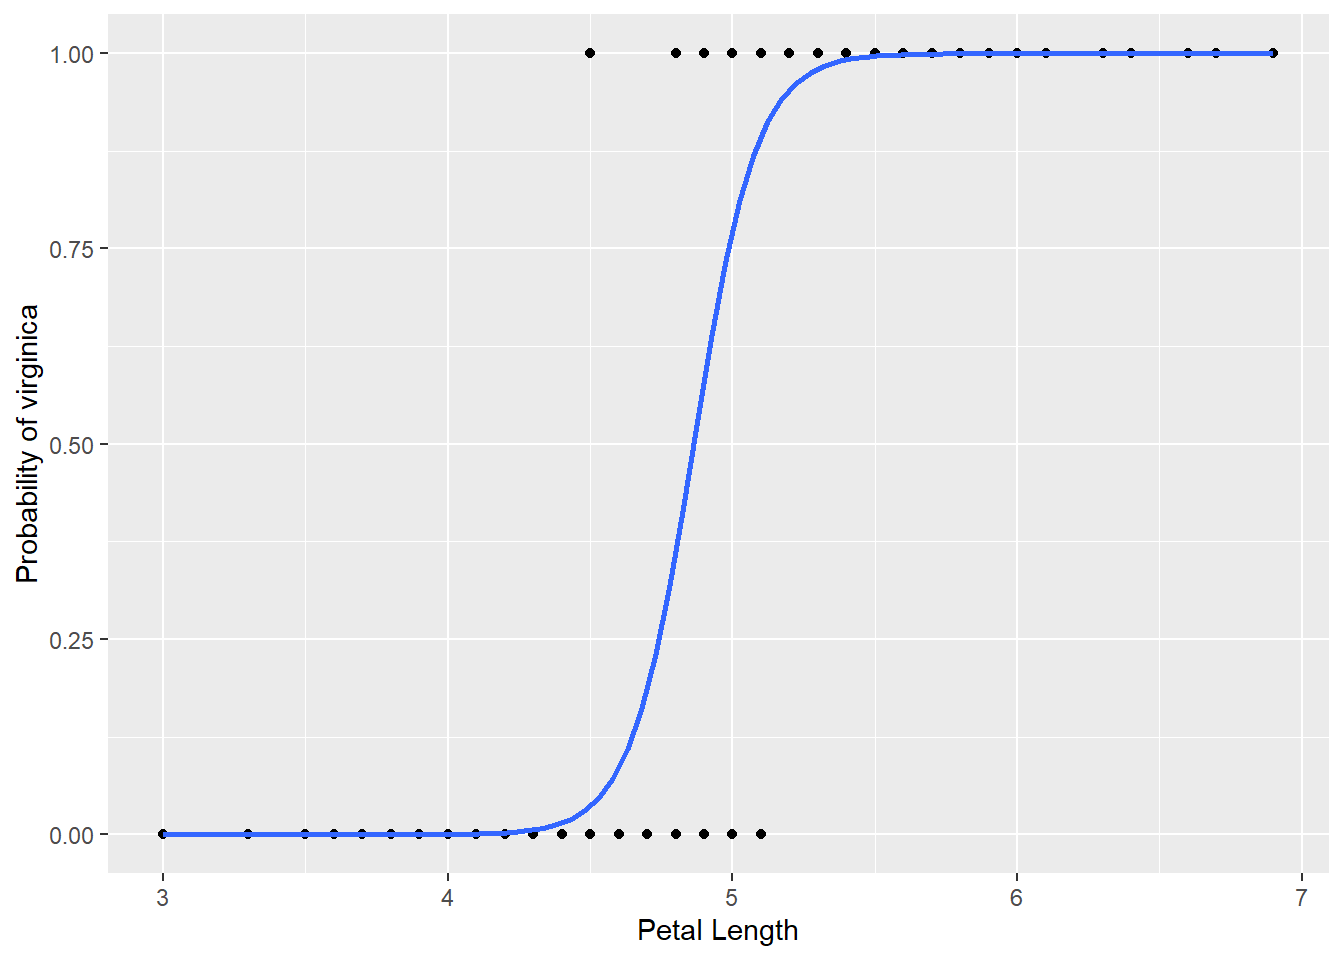
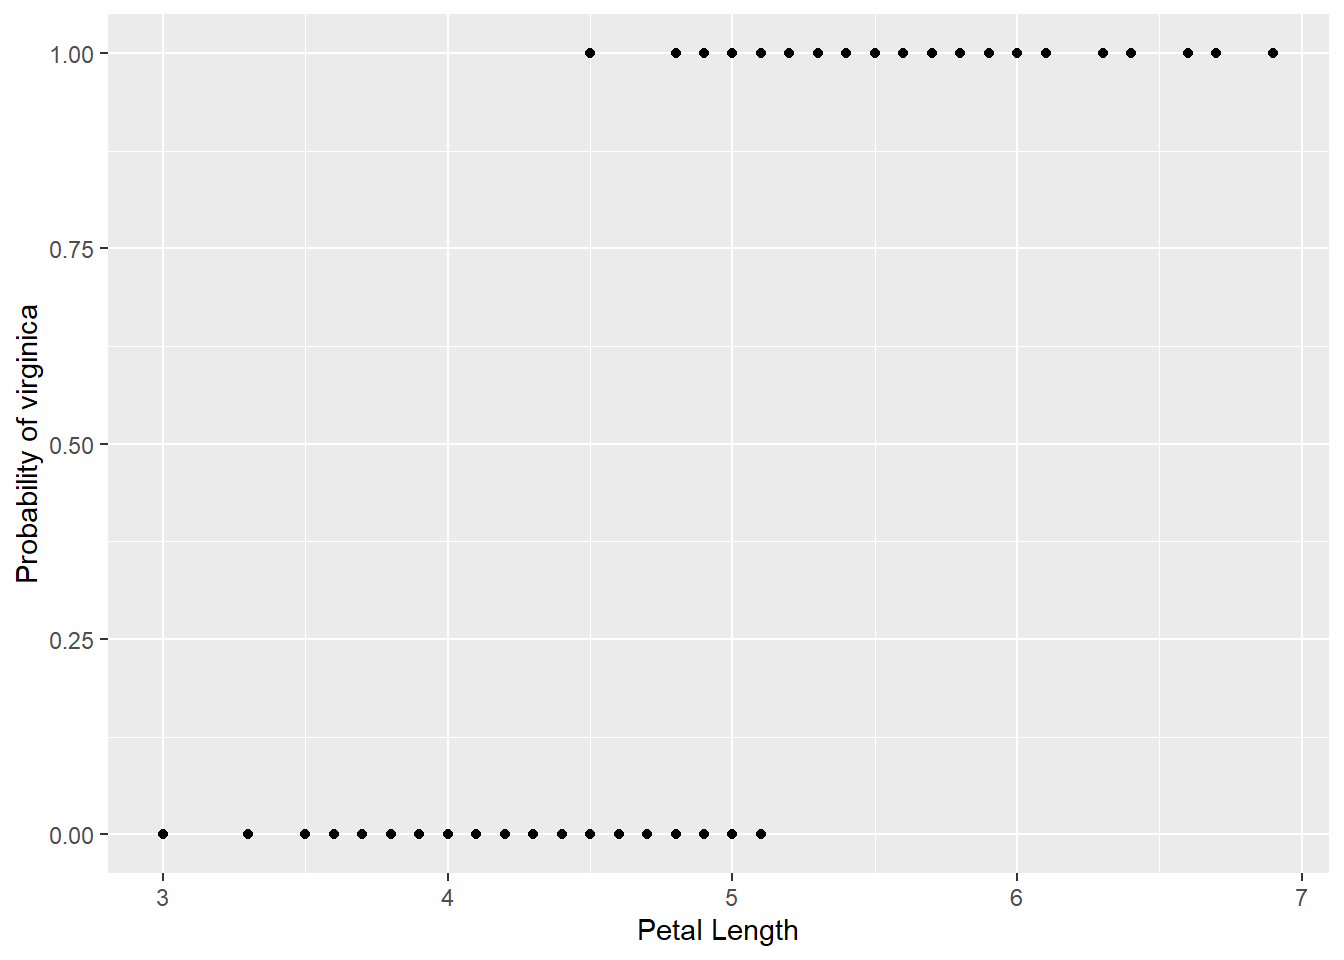
Writing logistic

diff --git a/docs/_book/stat05_log_reg.html b/docs/_book/stat05_log_reg.html
@@ -287,7 +287,17 @@ window.Quarto = {
 </header>
 
 
-<p>Opposite Ordinary Least Squares (OLS), which predicts a continuous value, logistic regression predicts a probability between two classes (usually referred to as a TRUE/FALSE). This is done by fitting a logistic function, also called a sigmoid function, which has the form <span class="math inline">\(f(x) = \frac{1}{1 + e^{-x}}\)</span>. Fitting is performed by converting the probabilities into log-odds. Converting is done with the logit function on the form <span class="math inline">\(log(odds) = log(\frac{p}{1-p})\)</span>. The data then exists on a continuous scale. Logistic regression cannot apply sum of squared residuals as OLS did, as converting the probabilities into log-odds pushes the data points to positive and negative infinity. Instead maximum likelihoods is used to find the best fit line. After finding a line on the log-odds scale, the values are converted back into probabilities with the logistic function. The product of probabilities is then calculated, where the product is found differently for the TRUE and FALSE class</p>
+<p>Opposite Ordinary Least Squares (OLS), which predicts a continuous value, logistic regression predicts a probability between two classes (usually referred to as a TRUE/FALSE). This is done by fitting a logistic function, also called a sigmoid function, which has the form <span class="math inline">\(p = \frac{1}{1 + e^{-y}}\)</span> and have a characteristic S-shape. When plotting these probabilites, the y-axis ranges from 0 to 1 reflecting the probability of the class measured along the y-axis.</p>
+<p>When applying logistic regression, the probabilites are transformed into a continuous scale with the logit function which has the form <span class="math inline">\(log(odds) = log(\frac{p}{1-p})\)</span>. The logit function converts the probabilities into log-odds. For example, a probability of is 0 log-odds, the center on the transformed y-axis. A probability of 0.731 is 1 log-odds and so forth. The points that were classified as TRUE, i.e.&nbsp;1 on the y-axis, is transformed to positive infinity on the new y-axis as:</p>
+<p><span class="math display">\[
+log(odds) = log(\frac{p}{1-p}) = log(\frac{1}{1-1}) = log(\frac{1}{0}) = log(1) - log(0) = \infty
+\]</span></p>
+<p>The points that were classified as FALSE, i.e.&nbsp;0 on the previous y-axis, is transformed to negative infinity on the new y-axis as:</p>
+<p><span class="math display">\[
+log(odds) = log(\frac{p}{1-p}) = log(\frac{0}{1-0}) = log(\frac{0}{1}) = log(0) - log(1) = -\infty
+\]</span></p>
+<p>So, the interval of 0.5 to 1 on the old axis as been transformed into an interval from 0 to positive infinity and vice versa. The data now exists on a continuous scale from negative to positive infinity, and a straight line can be fitted to the data.</p>
+<p>For finding the coefficients, logistic regression cannot apply sum of squared residuals as OLS did, as the distance between a point and a given candidate line tends to be infinity given the transformation mentioned above. Instead, maximum likelihoods is used to find the best fit line. After finding a candidate line on the log-odds scale (the continuous scale), the data points are projected onto the line. The log-odds values are then read off the y-axis. The log-odds values are then converted back into probabilities with the logistic function. The product of probabilities is then calculated, where the product is found differently for the TRUE and FALSE classes:</p>
 <p><span class="math display">\[
 L(\beta,x_i,y_i) = \prod_{i \; in \; y = 1}^{n} x_i \cdot \prod_{i \; in \; y = 0}^{n} (1-x_i)
 \]</span></p>
@@ -295,21 +305,23 @@ L(\beta,x_i,y_i) = \prod_{i \; in \; y = 1}^{n} x_i \cdot \prod_{i \; in \; y = 
 <p><span class="math display">\[
 \beta_{LR} = argmax_{\beta} \; L(\beta,x_i,y_i)
 \]</span></p>
+<p>The process results in the best set of coefficients for the linear line that maximizes the product of probabilities. It is possible to convert the linearly fit line back to the original scale with the logistic function by replacing ‘y’ with the linear equation:</p>
+<p><span class="math display">\[
+p = \frac{1}{1 + e^{-y}} = \frac{1}{1 + e^{-(\beta_0 + \beta_1 \cdot x_1+ \beta_2 \cdot x_2 + ... + \beta_n \cdot x_n)}}
+\]</span></p>
+<p>For illustrating logistic regression, we will use the iris dataset and predict the probability of a flower being a virginica based on the petal length. As previously, the setosa class have been removed from the data set to only contain two classes. The species is transformed into a binary variable, where versicolor is 0 and virginica is 1. Below the data is visualized where the petal length is seen on the x-axis and the probability of being a virginica is seen on the y-axis.</p>
 <div class="cell">
-<div class="sourceCode cell-code" id="cb1"><pre class="sourceCode r code-with-copy"><code class="sourceCode r"><span id="cb1-1"><a href="#cb1-1" aria-hidden="true" tabindex="-1"></a>iris <span class="sc">|&gt;</span></span>
-<span id="cb1-2"><a href="#cb1-2" aria-hidden="true" tabindex="-1"></a>  <span class="fu">mutate</span>(<span class="at">Species_integer =</span> <span class="fu">case_when</span>(Species <span class="sc">==</span> <span class="st">"versicolor"</span> <span class="sc">~</span> <span class="dv">0</span>,</span>
-<span id="cb1-3"><a href="#cb1-3" aria-hidden="true" tabindex="-1"></a>                                     Species <span class="sc">==</span> <span class="st">"virginica"</span> <span class="sc">~</span> <span class="dv">1</span>)) <span class="sc">|&gt;</span></span>
-<span id="cb1-4"><a href="#cb1-4" aria-hidden="true" tabindex="-1"></a>  <span class="fu">ggplot</span>(<span class="fu">aes</span>(<span class="at">x =</span> Petal.Length,</span>
-<span id="cb1-5"><a href="#cb1-5" aria-hidden="true" tabindex="-1"></a>             <span class="at">y =</span> Species_integer)) <span class="sc">+</span></span>
-<span id="cb1-6"><a href="#cb1-6" aria-hidden="true" tabindex="-1"></a>  <span class="fu">geom_point</span>() <span class="sc">+</span></span>
-<span id="cb1-7"><a href="#cb1-7" aria-hidden="true" tabindex="-1"></a>  <span class="fu">geom_smooth</span>(<span class="at">method =</span> <span class="st">"glm"</span>,</span>
-<span id="cb1-8"><a href="#cb1-8" aria-hidden="true" tabindex="-1"></a>              <span class="at">se =</span> <span class="cn">FALSE</span>,</span>
-<span id="cb1-9"><a href="#cb1-9" aria-hidden="true" tabindex="-1"></a>              <span class="at">method.args =</span> <span class="fu">list</span>(<span class="at">family=</span>binomial)) <span class="sc">+</span></span>
-<span id="cb1-10"><a href="#cb1-10" aria-hidden="true" tabindex="-1"></a>  <span class="fu">labs</span>(<span class="at">x =</span> <span class="st">"Petal Length"</span>,</span>
-<span id="cb1-11"><a href="#cb1-11" aria-hidden="true" tabindex="-1"></a>       <span class="at">y =</span> <span class="st">"Probability of virginica"</span>)</span></code><button title="Copy to Clipboard" class="code-copy-button"><i class="bi"></i></button></pre></div>
-<div class="cell-output cell-output-stderr">
-<pre><code>`geom_smooth()` using formula = 'y ~ x'</code></pre>
-</div>
+<div class="sourceCode cell-code" id="cb1"><pre class="sourceCode r code-with-copy"><code class="sourceCode r"><span id="cb1-1"><a href="#cb1-1" aria-hidden="true" tabindex="-1"></a>iris_prob <span class="ot">&lt;-</span> iris <span class="sc">|&gt;</span></span>
+<span id="cb1-2"><a href="#cb1-2" aria-hidden="true" tabindex="-1"></a>  <span class="fu">mutate</span>(<span class="at">Species_prob =</span> <span class="fu">case_when</span>(Species <span class="sc">==</span> <span class="st">"versicolor"</span> <span class="sc">~</span> <span class="dv">0</span>,</span>
+<span id="cb1-3"><a href="#cb1-3" aria-hidden="true" tabindex="-1"></a>                                     Species <span class="sc">==</span> <span class="st">"virginica"</span> <span class="sc">~</span> <span class="dv">1</span>))</span>
+<span id="cb1-4"><a href="#cb1-4" aria-hidden="true" tabindex="-1"></a></span>
+<span id="cb1-5"><a href="#cb1-5" aria-hidden="true" tabindex="-1"></a>iris_prob_plot <span class="ot">&lt;-</span> iris_prob <span class="sc">|&gt;</span></span>
+<span id="cb1-6"><a href="#cb1-6" aria-hidden="true" tabindex="-1"></a>  <span class="fu">ggplot</span>(<span class="fu">aes</span>(<span class="at">x =</span> Petal.Length,</span>
+<span id="cb1-7"><a href="#cb1-7" aria-hidden="true" tabindex="-1"></a>             <span class="at">y =</span> Species_prob)) <span class="sc">+</span></span>
+<span id="cb1-8"><a href="#cb1-8" aria-hidden="true" tabindex="-1"></a>  <span class="fu">geom_point</span>() <span class="sc">+</span></span>
+<span id="cb1-9"><a href="#cb1-9" aria-hidden="true" tabindex="-1"></a>  <span class="fu">labs</span>(<span class="at">x =</span> <span class="st">"Petal Length"</span>,</span>
+<span id="cb1-10"><a href="#cb1-10" aria-hidden="true" tabindex="-1"></a>       <span class="at">y =</span> <span class="st">"Probability of virginica"</span>)</span>
+<span id="cb1-11"><a href="#cb1-11" aria-hidden="true" tabindex="-1"></a>iris_prob_plot</span></code><button title="Copy to Clipboard" class="code-copy-button"><i class="bi"></i></button></pre></div>
 <div class="cell-output-display">
 <div>
 <figure class="figure">
@@ -318,18 +330,58 @@ L(\beta,x_i,y_i) = \prod_{i \; in \; y = 1}^{n} x_i \cdot \prod_{i \; in \; y = 
 </div>
 </div>
 </div>
-<p>OLS uses sum of squared residuals (SSR). Logistic regression uses maximum likelihood.</p>
-<p>Maximum likelihood: Imagine a range of data and we want to fit a normal distribution. We want to find the mean and standard deviation that maximizes the likelihood of the data. Maximizing likelihood here means, the highest chance of observing the range of data we got if we assume it follow the particular normal distribution we are testing. Say the true mean of our data was 10, but we tested a normal distribution centered around 0, the likelihood of observing the data with mean 10 is very low. We do the same thing for the standard deviation.</p>
-<p>The y-axis for logistic regression goes from 0 to 1 reflecting the probability of the class measured along the y-axis. This can be transformed into a more standard y-axis p� taking the log of the odds ratio. The log-odds ratio is the logit function, <span class="math inline">\(log(p)=log10(p/1-p)\)</span>. For example, 0.5 probability is 0 log-odds ratio, the center on the transformed y-axis. 0.731 probability is 1 log-odds ratio and 0.88 probability is 2 log-odds ratio, 0.95 probability is 3 log-odds ratio.</p>
-<p><span class="math display">\[
-log(odds) = log(\frac{p}{1-p}) = log(\frac{1}{1-1}) = log(\frac{1}{0}) = log(1) - log(0) = \infty
-\]</span></p>
-<p><span class="math display">\[
-log(odds) = log(\frac{p}{1-p}) = log(\frac{0}{1-0}) = log(\frac{0}{1}) = log(0) - log(1) = -\infty
-\]</span></p>
-<p>The points that were classified as TRUE, i.e.&nbsp;1 on the previous y-axis, is transformed to positive infinity on the new y-axis as <span class="math inline">\(log10(1/1-1)=log10(1/0)=log10(1)-log10(0)\)</span>, which is positive infinity. The points that were classified as FALSE, i.e.&nbsp;0 on the previous y-axis, is transformed to negative infinity on the new y-axis as <span class="math inline">\(log10(0/1-0)=log10(0/1)=log10(0)-log10(1)\)</span>, which is negative infinity. So, the interval of 0.5 to 1 on the old axis as been transformed into an interval from 0 to positive infinity and vice versa.</p>
-<p>The logit function transform the sigmoid function into a straight line with the log-odds y-axis. Cannot use least squares to find the best fit line as data points are pushed to positive and negative infinity, and as such the residuals are also infinity. Instead, we use maximum likelihood to find the best fit line. Project the data points onto a candidate logit function, this gives each data point a candidate log(odds) value, not just negative or positive infinity. From candidate log(odds) calculate back into probability with the inverse logit function, <span class="math inline">\(p = \frac{e^{log10(p)}}{1 + e^{log10(p)}}\)</span>. The data not exist in the old space with a y-axis from 0 to 1. For the TRUE class, note their y-values and multiply them all (y-value is equal to their probability of being true). For the FALSE class, note their y-values and subtract them all from 1 (y-value is equal to their probability of being in the TRUE class, but we want the probability of being the in the FALSE). These probabilities are also multiplied, afterwards multiply the two resulting products to get a final product. For some reason, people tend to take the log of the probabilities and sum them instead of multiplying, which is the log-likelihood. The log-likelihood is maximized when the model is fit to the data. This is done by trying a new candidate line, get candidate log(odds) values and repeat the above process. The candidate line that maximizes (highest value) the log-likelihood is the best fit line.</p>
-<p>https://www.youtube.com/watch?v=vN5cNN2-HWE https://www.youtube.com/watch?v=BfKanl1aSG0 https://www.youtube.com/watch?v=xxFYro8QuXA</p>
+<p>The probabilities is then transformed to log(odds) with the logit function. In this data set, all values were either 1 or 0, which is why the log(odds) values are either positive or negative infinity as seen below:</p>
+<div class="cell">
+<div class="sourceCode cell-code" id="cb2"><pre class="sourceCode r code-with-copy"><code class="sourceCode r"><span id="cb2-1"><a href="#cb2-1" aria-hidden="true" tabindex="-1"></a>iris_logit_plot <span class="ot">&lt;-</span> iris_prob <span class="sc">|&gt;</span> </span>
+<span id="cb2-2"><a href="#cb2-2" aria-hidden="true" tabindex="-1"></a>  <span class="fu">mutate</span>(<span class="at">Species_logit =</span> <span class="fu">log</span>(Species_prob <span class="sc">/</span> (<span class="dv">1</span> <span class="sc">-</span> Species_prob))) <span class="sc">|&gt;</span> </span>
+<span id="cb2-3"><a href="#cb2-3" aria-hidden="true" tabindex="-1"></a>  <span class="fu">mutate</span>(<span class="at">Species_logit =</span> <span class="fu">case_when</span>(Species_logit <span class="sc">==</span> <span class="cn">Inf</span> <span class="sc">~</span> <span class="st">"Inf"</span>,</span>
+<span id="cb2-4"><a href="#cb2-4" aria-hidden="true" tabindex="-1"></a>                                   Species_logit <span class="sc">==</span> <span class="sc">-</span><span class="cn">Inf</span> <span class="sc">~</span> <span class="st">"-Inf"</span>,</span>
+<span id="cb2-5"><a href="#cb2-5" aria-hidden="true" tabindex="-1"></a>                                   <span class="cn">TRUE</span> <span class="sc">~</span> <span class="fu">as.character</span>(Species_logit)</span>
+<span id="cb2-6"><a href="#cb2-6" aria-hidden="true" tabindex="-1"></a>                                   )) <span class="sc">|&gt;</span></span>
+<span id="cb2-7"><a href="#cb2-7" aria-hidden="true" tabindex="-1"></a>  <span class="fu">ggplot</span>(<span class="fu">aes</span>(<span class="at">x =</span> Petal.Length,</span>
+<span id="cb2-8"><a href="#cb2-8" aria-hidden="true" tabindex="-1"></a>             <span class="at">y =</span> Species_logit)) <span class="sc">+</span></span>
+<span id="cb2-9"><a href="#cb2-9" aria-hidden="true" tabindex="-1"></a>  <span class="fu">geom_point</span>() <span class="sc">+</span></span>
+<span id="cb2-10"><a href="#cb2-10" aria-hidden="true" tabindex="-1"></a>  <span class="fu">scale_y_discrete</span>(<span class="at">limits =</span> <span class="fu">c</span>(<span class="st">"-Inf"</span>, <span class="st">"-2"</span>, <span class="st">"-1"</span>, <span class="st">"0"</span>, <span class="st">"1"</span>, <span class="st">"2"</span>, <span class="st">"Inf"</span>)) <span class="sc">+</span></span>
+<span id="cb2-11"><a href="#cb2-11" aria-hidden="true" tabindex="-1"></a>  <span class="fu">labs</span>(<span class="at">x =</span> <span class="st">"Petal Length"</span>,</span>
+<span id="cb2-12"><a href="#cb2-12" aria-hidden="true" tabindex="-1"></a>       <span class="at">y =</span> <span class="st">"log(odds) of virginica"</span>)</span>
+<span id="cb2-13"><a href="#cb2-13" aria-hidden="true" tabindex="-1"></a>iris_logit_plot</span></code><button title="Copy to Clipboard" class="code-copy-button"><i class="bi"></i></button></pre></div>
+<div class="cell-output-display">
+<div>
+<figure class="figure">
+<p><img src="stat05_log_reg_files/figure-html/unnamed-chunk-2-1.png" class="img-fluid figure-img" width="672"></p>
+</figure>
+</div>
+</div>
+</div>
+<p>As a candidate fit, see the red dashed lined below. The data points are projected onto the line and the log(odds) values are read off the y-axis. The log(odds) values are then converted back into probabilities with the logistic function. The probabilities are then multiplied together for the TRUE and FALSE classes. The product of the two classes is then calculated. The candidate line that maximizes the product is the best fit line.</p>
+<div class="cell">
+<div class="sourceCode cell-code" id="cb3"><pre class="sourceCode r code-with-copy"><code class="sourceCode r"><span id="cb3-1"><a href="#cb3-1" aria-hidden="true" tabindex="-1"></a>iris_logit_plot <span class="sc">+</span></span>
+<span id="cb3-2"><a href="#cb3-2" aria-hidden="true" tabindex="-1"></a>  <span class="fu">geom_abline</span>(<span class="at">intercept =</span> <span class="dv">0</span>, <span class="at">slope =</span> <span class="dv">1</span>, <span class="at">linetype =</span> <span class="st">"dashed"</span>, <span class="at">color =</span> <span class="st">"red"</span>)</span></code><button title="Copy to Clipboard" class="code-copy-button"><i class="bi"></i></button></pre></div>
+<div class="cell-output-display">
+<div>
+<figure class="figure">
+<p><img src="stat05_log_reg_files/figure-html/unnamed-chunk-3-1.png" class="img-fluid figure-img" width="672"></p>
+</figure>
+</div>
+</div>
+</div>
+<p>Ultimately, the optimal sigmoid shaped line is found:</p>
+<div class="cell">
+<div class="sourceCode cell-code" id="cb4"><pre class="sourceCode r code-with-copy"><code class="sourceCode r"><span id="cb4-1"><a href="#cb4-1" aria-hidden="true" tabindex="-1"></a>iris_prob_plot <span class="sc">+</span></span>
+<span id="cb4-2"><a href="#cb4-2" aria-hidden="true" tabindex="-1"></a>  <span class="fu">geom_smooth</span>(<span class="at">method =</span> <span class="st">"glm"</span>,</span>
+<span id="cb4-3"><a href="#cb4-3" aria-hidden="true" tabindex="-1"></a>              <span class="at">method.args =</span> <span class="fu">list</span>(<span class="at">family =</span> <span class="st">"binomial"</span>),</span>
+<span id="cb4-4"><a href="#cb4-4" aria-hidden="true" tabindex="-1"></a>              <span class="at">se =</span> <span class="cn">FALSE</span>)</span></code><button title="Copy to Clipboard" class="code-copy-button"><i class="bi"></i></button></pre></div>
+<div class="cell-output cell-output-stderr">
+<pre><code>`geom_smooth()` using formula = 'y ~ x'</code></pre>
+</div>
+<div class="cell-output-display">
+<div>
+<figure class="figure">
+<p><img src="stat05_log_reg_files/figure-html/unnamed-chunk-4-1.png" class="img-fluid figure-img" width="672"></p>
+</figure>
+</div>
+</div>
+</div>
 
 
 
